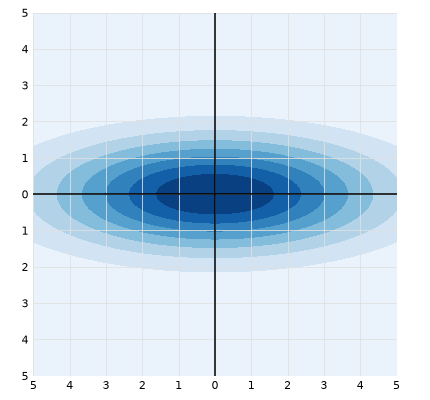
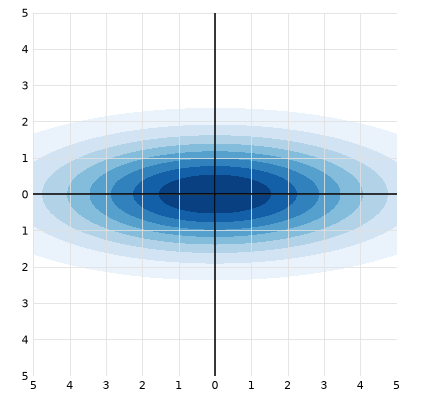
Add S-Line photography, fix R-Line/S-Line photometry colour, add pending BIM cards and operating-temp badges
- Add real S-Line product photos (profile + angle) processed to match
  DPL/DSX hero-image convention: transparent background, 950x571 canvas,
  matching scale/framing. R-Line has no photos yet, so its gallery stays
  on the "imagery pending" placeholder rather than using the dimension
  diagram as a hero image, which would violate the site's clean-profile
  convention.
- Add S-Line's dimension diagram as a third gallery thumbnail (mirrors
  DPL/DSX's own pattern of including the diagram alongside real photos).
- Regenerate R-Line/S-Line's shared photometry charts with a threshold
  so the background reads as white with a defined blue footprint,
  matching DPL/DSX's chart style instead of a blue-washed plot.
- Render a "Coming soon" placeholder download card for any missing
  download type (BIM for R-Line/S-Line) instead of omitting the card.
- Add an operating-temperature badge to all four products' badge rows.
- Clarify R-Line/S-Line's IK rating (IK08 without glass lens, IK10 with
  the .G tempered glass lens option) across badges, key specs and
  certifications.

Claude-Session: https://claude.ai/code/session_01R4sWaaqKu1iVMbbzze3tzg

Changed region(s): [[0.0605, 0.3, 0.9372, 0.66]]

diff --git a/assets/js/product.js b/assets/js/product.js
@@ -135,6 +135,13 @@
     );
   }
 
+  var DOWNLOAD_LABELS = {
+    brochure: "Product brochure",
+    ies: "IES photometric files",
+    bim: "BIM objects",
+    installGuide: "Installation instructions"
+  };
+
   function heroDownloads(p) {
     var dl = p.downloads;
     var order = ["brochure", "ies", "bim", "installGuide"];
@@ -144,8 +151,19 @@
         '<div class="hero-downloads__grid">' +
           order.map(function (key) {
             var d = dl[key];
-            return d ? downloadCard(d.label, d.meta, "../" + d.file, true) : "";
+            return d ? downloadCard(d.label, d.meta, "../" + d.file, true) : pendingDownloadCard(key);
           }).join("") +
+        '</div>' +
+      '</div>'
+    );
+  }
+
+  function pendingDownloadCard(key) {
+    return (
+      '<div class="download-card download-card--compact download-card--pending">' +
+        '<div>' +
+          '<span class="download-card__meta">Coming soon</span>' +
+          '<h4>' + esc(DOWNLOAD_LABELS[key] || key) + '</h4>' +
         '</div>' +
       '</div>'
     );

diff --git a/assets/css/product.css b/assets/css/product.css
@@ -424,6 +424,15 @@
   letter-spacing: 0;
 }
 
+.download-card--pending {
+  opacity: 0.45;
+  border-style: dashed;
+}
+
+.download-card--pending .download-card__meta {
+  color: var(--grey-500);
+}
+
 /* ---- Section spacing helpers within product page ---- */
 .product-section + .product-section {
   border-top: 1px solid var(--border-light);
